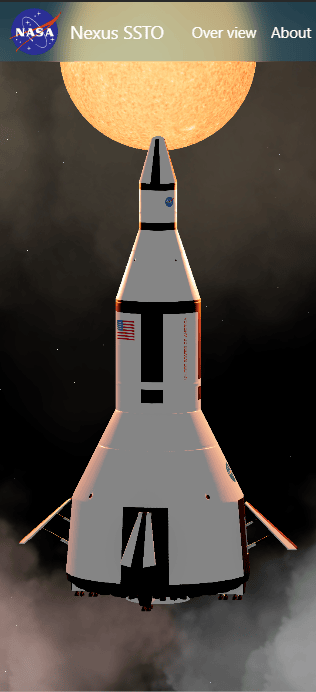
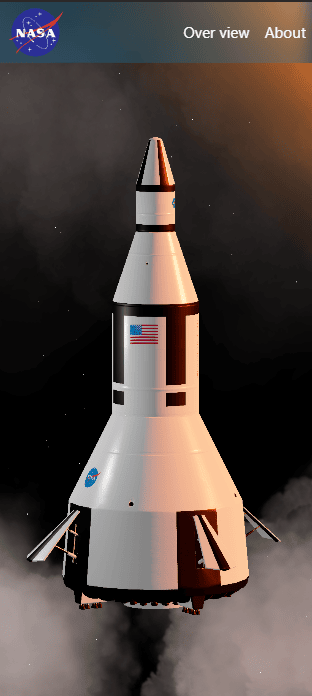
add some changes for better performance

diff --git a/src/App.jsx b/src/App.jsx
@@ -1,5 +1,5 @@
 import { useEffect, useState } from "react"
-import { CameraRig, Sky, Model, Nav, Details } from "./components"
+import { CameraRig, SkyContainer, Model, Nav, Details } from "./components"
 import { ScrollTrigger } from "gsap/ScrollTrigger"
 import gsap from "gsap"
 
@@ -23,9 +23,9 @@ function App() {
             <Model start={start} />
           </CameraRig>
         </section>
-        <section id="preview" className="preview-section -z-10 h-screen sticky w-full bg-black">
+        <section id="preview" className="preview-section -z-10 h-screen sticky w-full">
           <CameraRig start={start} setStart={setStart}>
-            <Sky start={start} />
+            <SkyContainer start={start} />
           </CameraRig>
         </section>
         <section id="about" className="about-section w-full relative">

diff --git a/src/components/canvas/Camera.jsx b/src/components/canvas/Camera.jsx
@@ -10,8 +10,8 @@ const CameraRig = ({ start, setStart, children }) => {
             camera={{ position: [0, 3, 30], fov: 10 }}
             gl={{ preserveDrawingBuffer: true }}
         >
-            <pointLight intensity={200} color={"#ff6b00"} position={[-3, 1, -5]} />
-            <pointLight intensity={200} color={"#ff6b00"} position={[2, 1, -3]} />
+            <pointLight intensity={5} position={[-2, 0, 0]} />
+            <directionalLight intensity={10} color={"#ff6b00"} position={[200, 80, 5]} />
             <Suspense fallback={null}>
                 <group>
                     {children}

diff --git a/src/components/index.js b/src/components/index.js
@@ -2,7 +2,6 @@ export { default as CameraRig } from "./canvas/Camera"
 export { default as Clouds } from "./canvas/Clouds"
 export { default as Loader } from "./canvas/Loader"
 export { default as Model } from "./canvas/Model"
-export { default as Sky } from "./canvas/Sky"
-export { default as Sun } from "./canvas/Sun"
+export { default as SkyContainer } from "./canvas/Sky"
 export { default as Details } from "./Details"
 export { default as Nav } from "./Nav"

diff --git a/src/components/canvas/Sky.jsx b/src/components/canvas/Sky.jsx
@@ -1,13 +1,12 @@
 import { Stars } from '@react-three/drei'
-import { Sun, Clouds } from '../'
-const Sky = ({ start }) => {
+import { Clouds } from '../'
+const SkyContainer = ({ start }) => {
     return (
         <mesh>
-            <Stars count={50000} />ّ
-            <Sun start={start} />
+            <Stars count={50000} />
             <Clouds start={start} />
         </mesh>
     )
 }
 
-export default Sky
+export default SkyContainer

diff --git a/src/index.css b/src/index.css
@@ -21,8 +21,9 @@ html {
     position: relative;
 }
 
-.no-scroll {
-    overflow: hidden;
+.preview-section {
+    background: rgb(0, 0, 0);
+    background: linear-gradient(45deg, rgba(0, 0, 0, 1) 0%, rgba(0, 0, 0, 1) 73%, rgba(46, 19, 0, 1) 81%, rgba(94, 40, 0, 1) 87%, rgba(166, 69, 1, 1) 92%, rgba(255, 107, 0, 1) 97%, rgba(255, 107, 0, 1) 97%, rgba(255, 122, 26, 1) 98%, rgba(255, 165, 100, 1) 100%, rgba(255, 160, 92, 1) 100%);
 }
 
 .loader {
